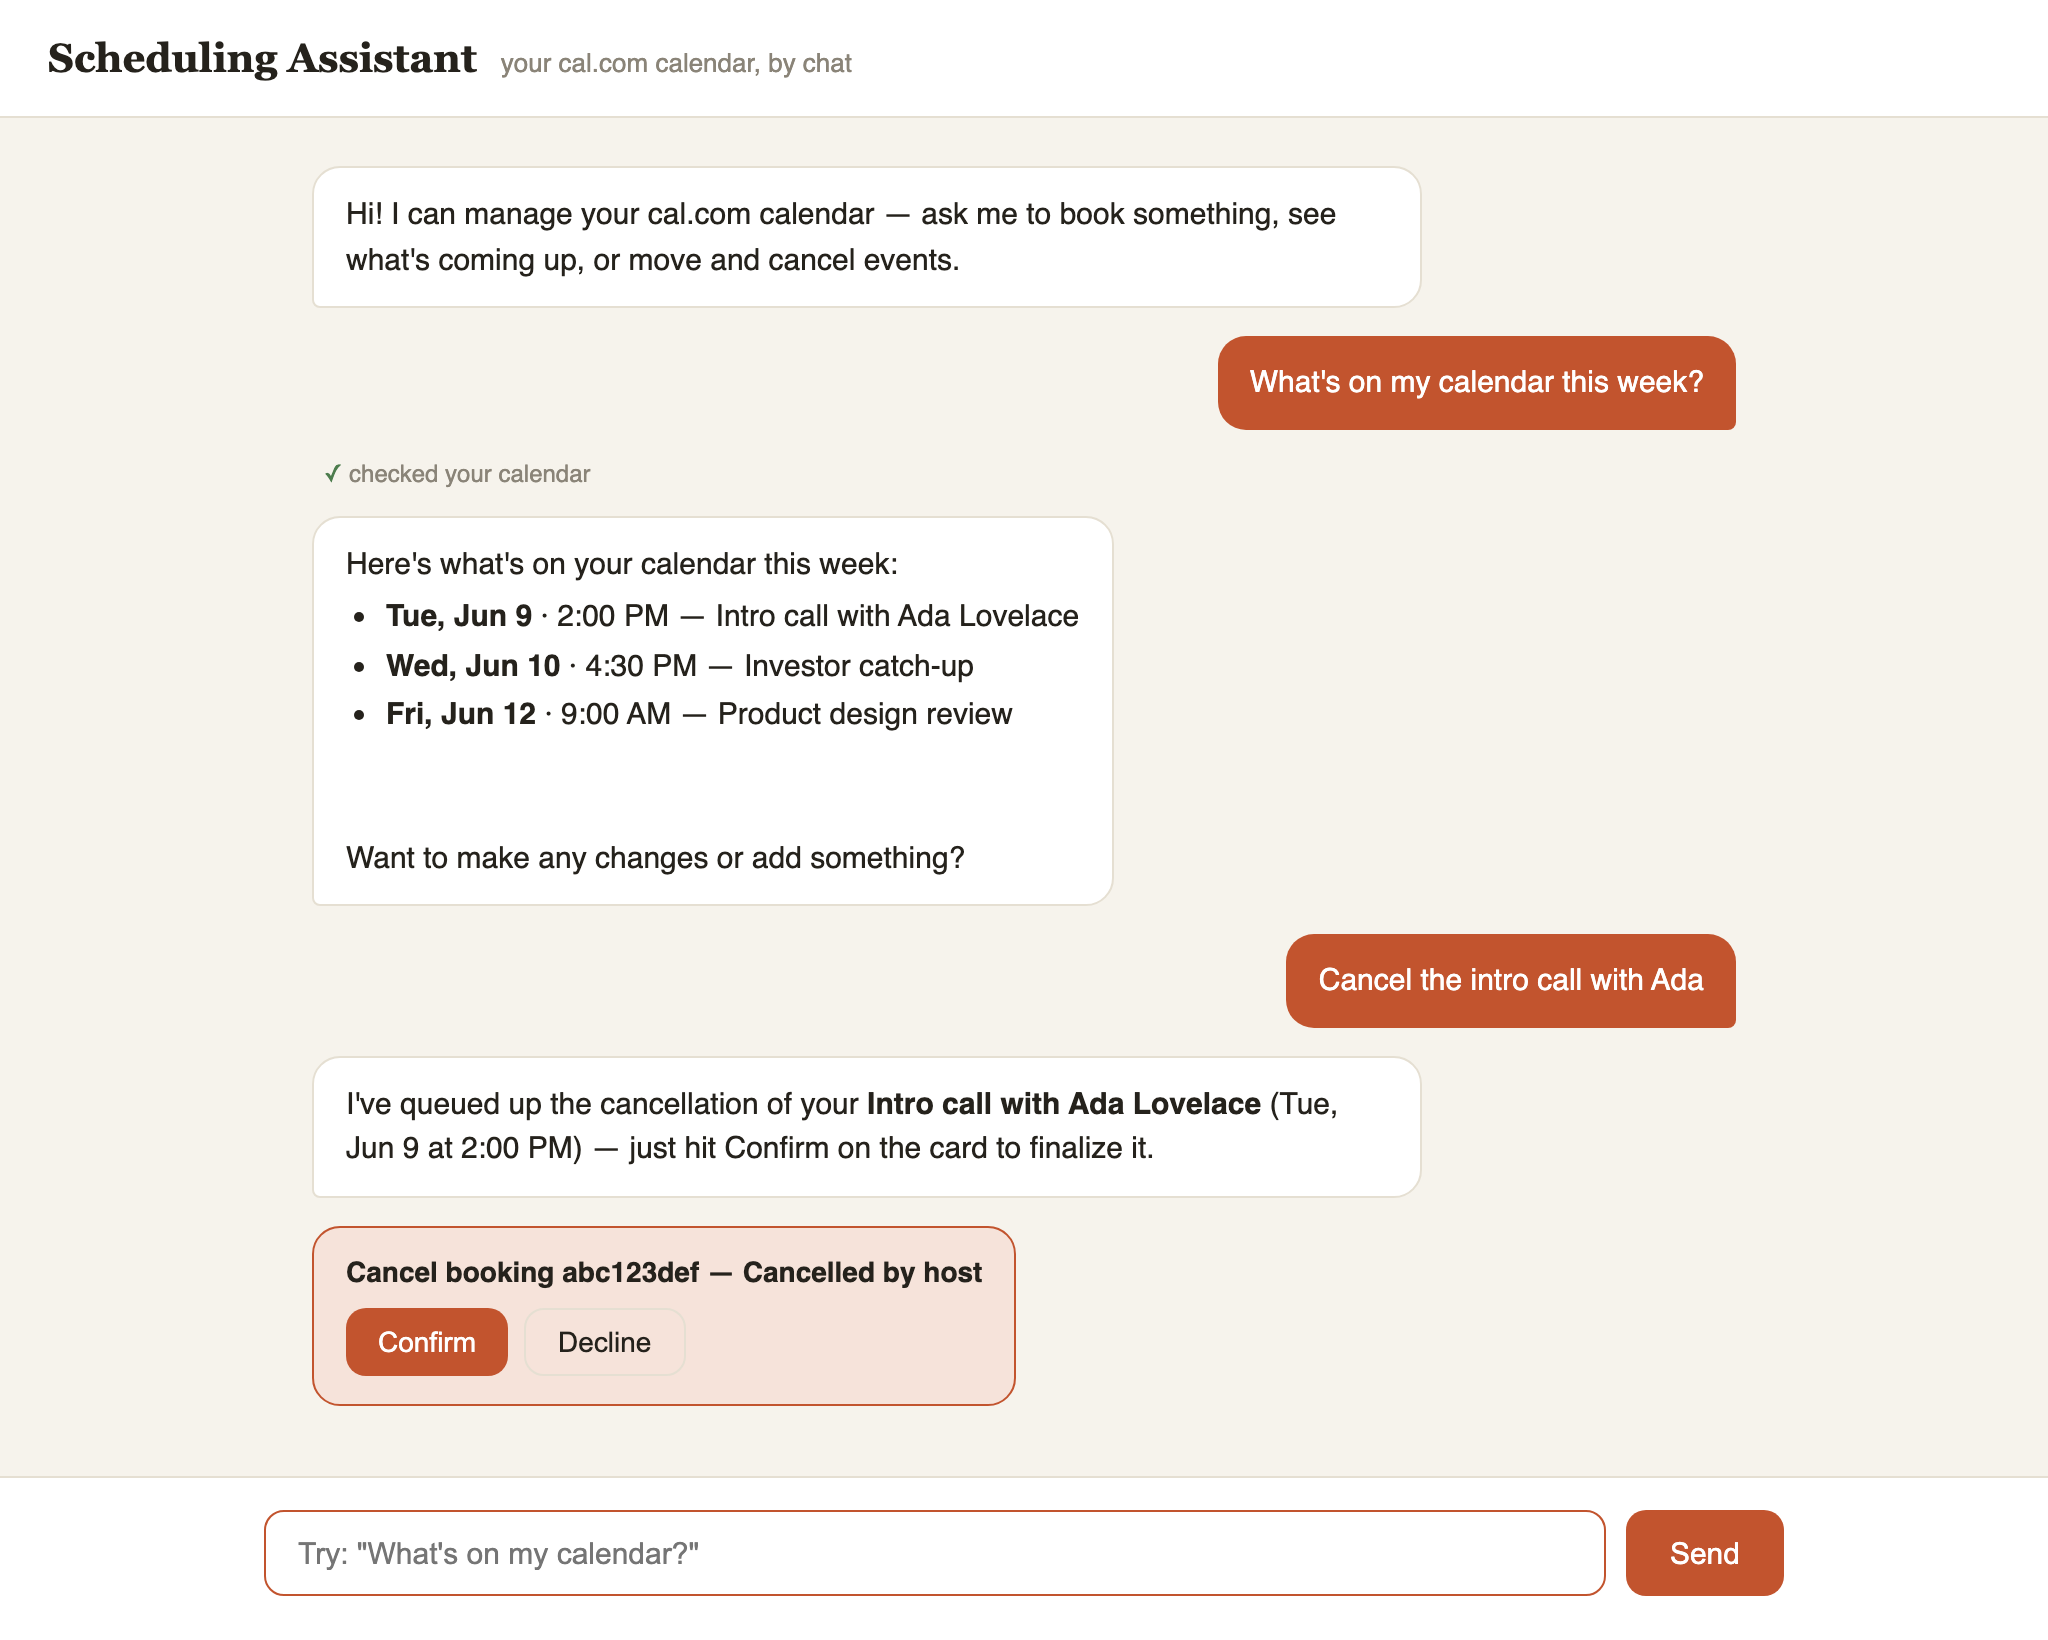
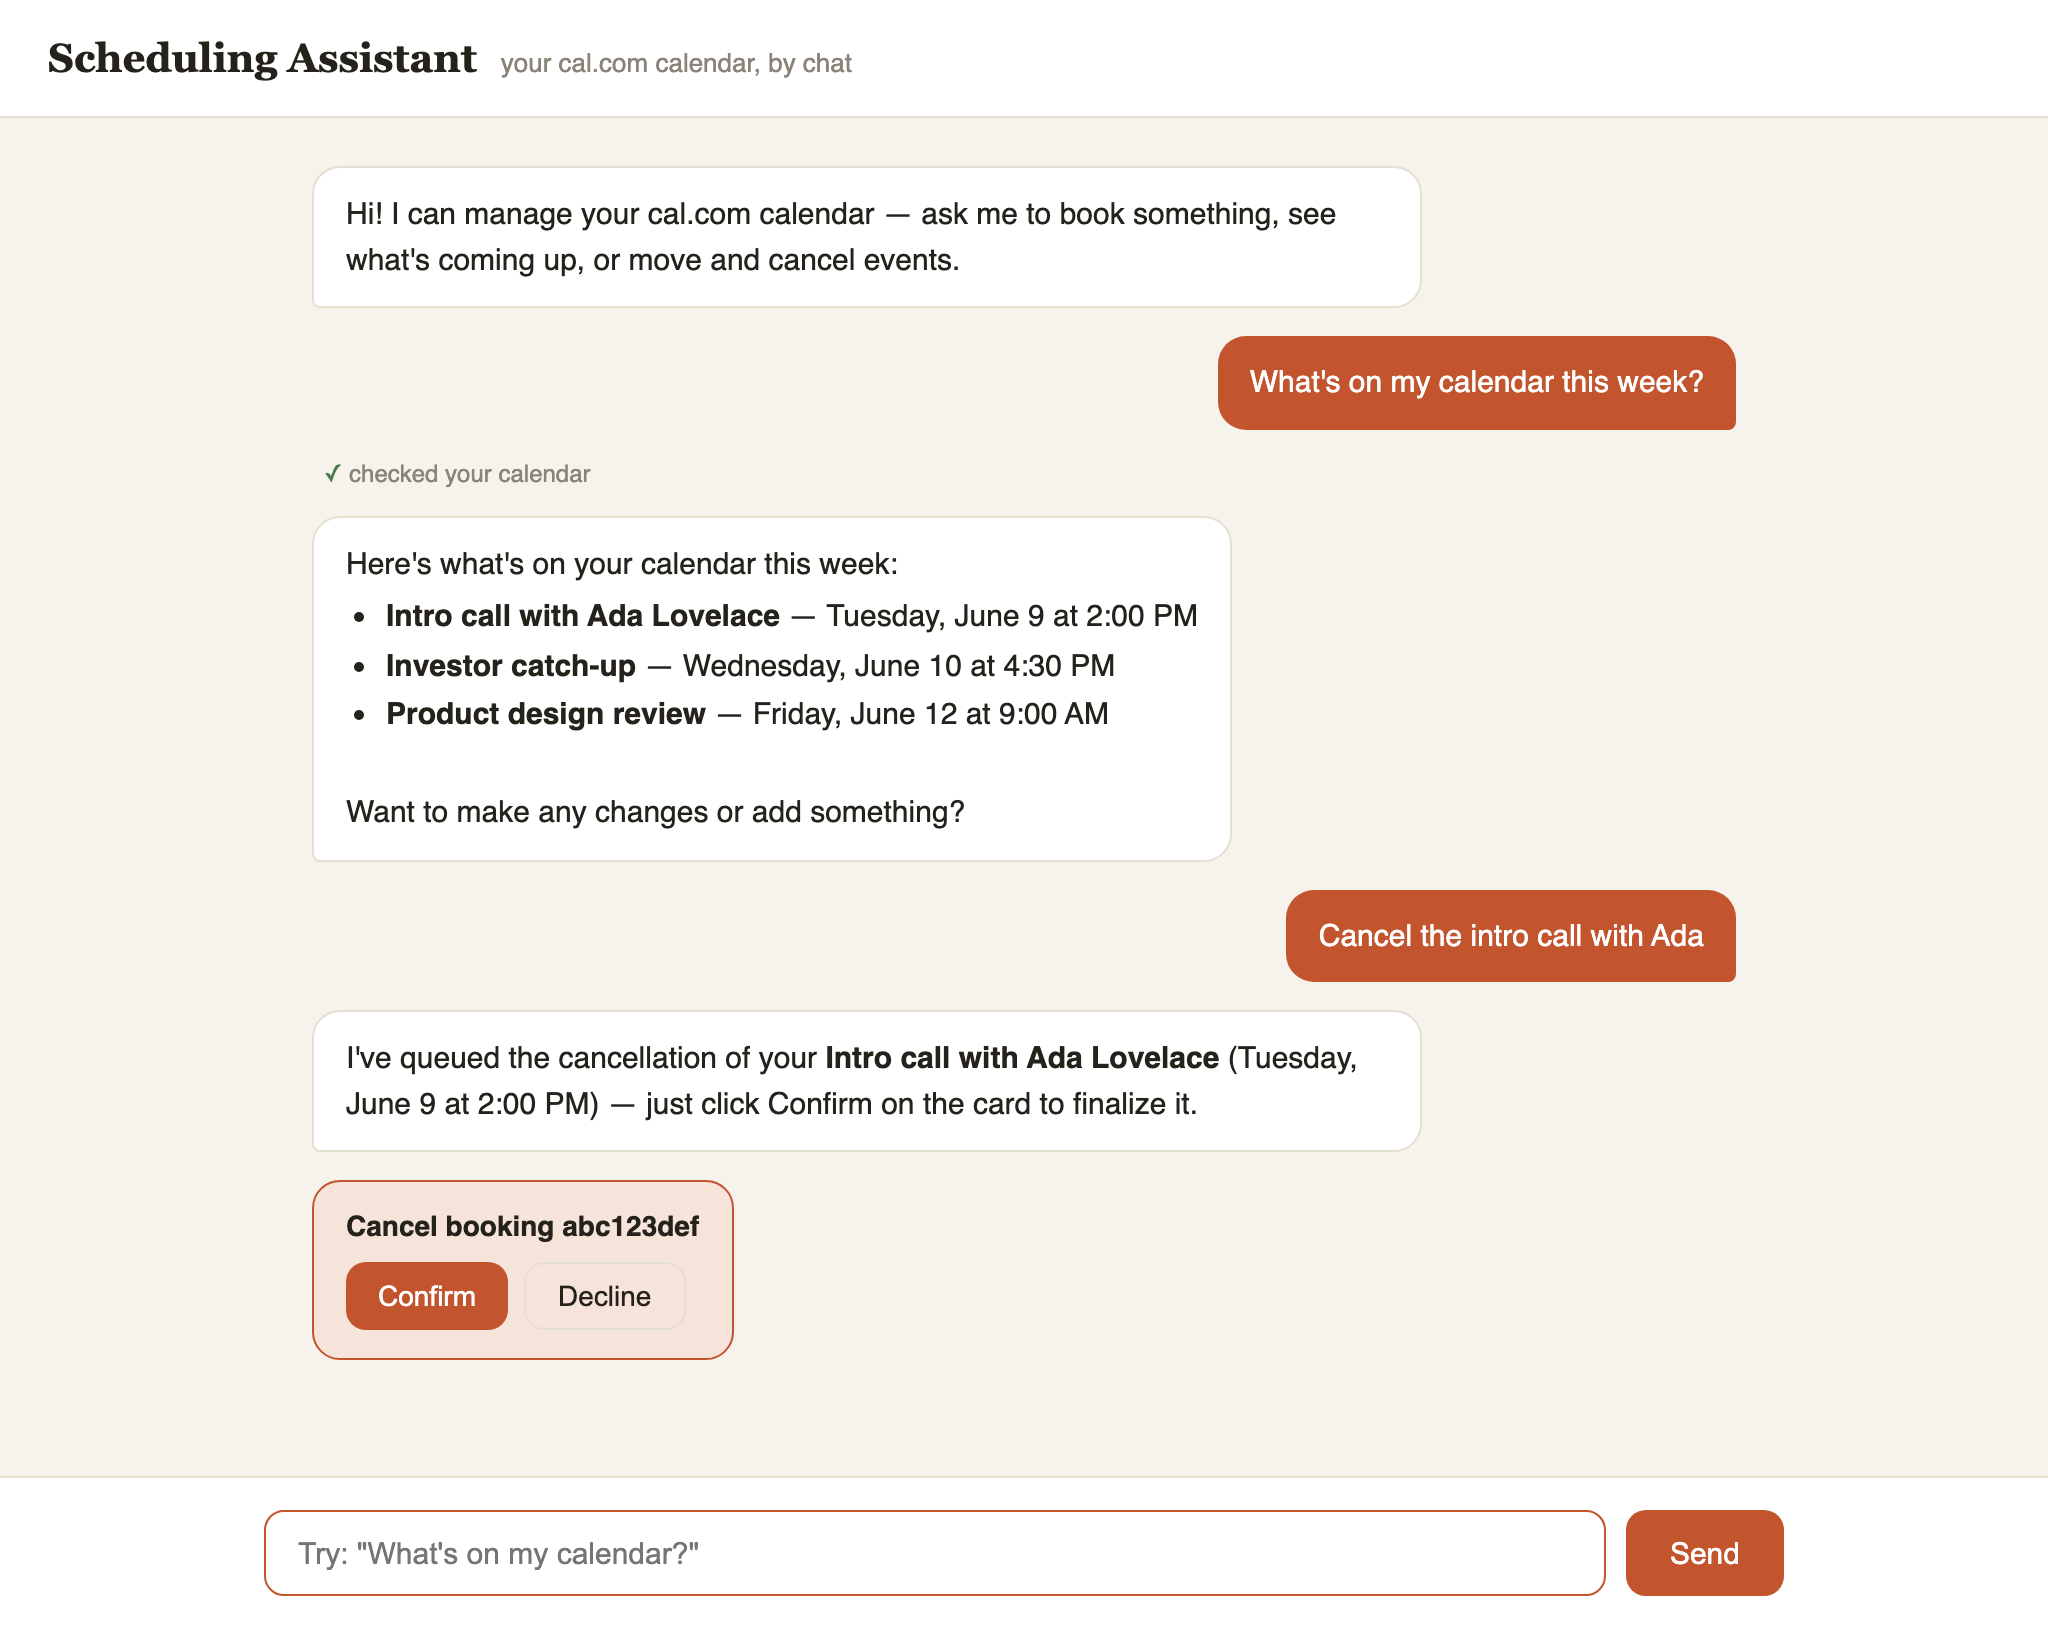
Review-pass fixes across the improvement series (9-angle review)
Correctness:
- _describe_outcome: non-dict (list/scalar) JSON tool results no longer
  AttributeError->500 after a confirmed reschedule succeeded
- /me bootstrap: a malformed profile timeZone degrades to UTC with a
  warning instead of crashing startup (explicit TIMEZONE still fails fast)
- anthropic adapter: APIError catch-all so no vendor exception escapes
  the LLMProviderError mapping; raw replay guards on truthiness so an
  empty block list can't produce an invalid assistant turn
- UI: crypto.randomUUID fallback for non-secure contexts (http on LAN)

Cleanup:
- shared postAndRender() replaces the duplicated fetch/error envelope in
  the submit and confirm handlers (validated end-to-end via Playwright)
- mock._format: removed cancel/reschedule branches made unreachable by
  the confirmation gate
- renderRichText: no stray blank line after lists; FakeCalCom.get_slots
  matches the SchedulingClient parameter order
- fresh docs/screenshot.png with the corrected list spacing

60 tests, ruff, mypy all green.

Changed region(s): [[0.1562, 0.5287, 0.8438, 0.8396], [0.1562, 0.3732, 0.5625, 0.5287]]

diff --git a/app/static/index.html b/app/static/index.html
@@ -173,7 +173,9 @@ const messagesEl = document.getElementById("messages");
 const form = document.getElementById("chat-form");
 const input = document.getElementById("input");
 const sendBtn = document.getElementById("send");
-const sessionId = crypto.randomUUID();
+// crypto.randomUUID only exists in secure contexts (https / localhost)
+const sessionId = crypto.randomUUID ? crypto.randomUUID()
+  : `${Date.now().toString(16)}-${Math.random().toString(16).slice(2)}`;
 
 // Minimal markdown for assistant replies (bold, inline code, "- " lists).
 // Built entirely with DOM nodes — model/user text never reaches innerHTML.
@@ -201,8 +203,10 @@ function renderRichText(container, text) {
       renderInline(li, item[1]);
       list.appendChild(li);
     } else {
+      // No newline node right after a </ul> — the block break is implicit
+      const afterList = list !== null;
       list = null;
-      if (i > 0) container.appendChild(document.createTextNode("\n"));
+      if (i > 0 && !afterList) container.appendChild(document.createTextNode("\n"));
       const heading = line.match(/^#{1,4}\s+(.*)$/);
       if (heading) {
         const strong = document.createElement("strong");
@@ -280,23 +284,10 @@ function addPendingCard(pending) {
   messagesEl.scrollTop = messagesEl.scrollHeight;
   activeCard = card;
 
-  const decide = (approved) => async () => {
+  const decide = (approved) => () => {
     retireActiveCard();
-    try {
-      const res = await fetch("/api/chat/confirm", {
-        method: "POST",
-        headers: { "Content-Type": "application/json" },
-        body: JSON.stringify({ session_id: sessionId, action_id: pending.id, approved }),
-      });
-      if (!res.ok) {
-        const detail = (await res.json().catch(() => ({}))).detail;
-        addMessage("assistant", detail || "Sorry, something went wrong. Please try again.");
-        return;
-      }
-      handleReply(await res.json());
-    } catch {
-      addMessage("assistant", "I couldn't reach the server — is it still running?");
-    }
+    postAndRender("/api/chat/confirm",
+      { session_id: sessionId, action_id: pending.id, approved });
   };
   confirmBtn.addEventListener("click", decide(true));
   declineBtn.addEventListener("click", decide(false));
@@ -306,6 +297,25 @@ function handleReply(data) {
   addToolActivity(data.tool_activity);
   addMessage("assistant", data.reply);
   if (data.pending_action) addPendingCard(data.pending_action);
+}
+
+// Shared POST → render path for /api/chat and /api/chat/confirm
+async function postAndRender(url, payload) {
+  try {
+    const res = await fetch(url, {
+      method: "POST",
+      headers: { "Content-Type": "application/json" },
+      body: JSON.stringify(payload),
+    });
+    if (!res.ok) {
+      const detail = (await res.json().catch(() => ({}))).detail;
+      addMessage("assistant", detail || "Sorry, something went wrong. Please try again.");
+      return;
+    }
+    handleReply(await res.json());
+  } catch {
+    addMessage("assistant", "I couldn't reach the server — is it still running?");
+  }
 }
 
 addMessage("assistant",
@@ -332,22 +342,9 @@ form.addEventListener("submit", async (e) => {
   messagesEl.scrollTop = messagesEl.scrollHeight;
 
   try {
-    const res = await fetch("/api/chat", {
-      method: "POST",
-      headers: { "Content-Type": "application/json" },
-      body: JSON.stringify({ session_id: sessionId, message: text }),
-    });
-    typing.remove();
-    if (!res.ok) {
-      const detail = (await res.json().catch(() => ({}))).detail;
-      addMessage("assistant", detail || "Sorry, something went wrong. Please try again.");
-      return;
-    }
-    handleReply(await res.json());
-  } catch {
-    typing.remove();
-    addMessage("assistant", "I couldn't reach the server — is it still running?");
+    await postAndRender("/api/chat", { session_id: sessionId, message: text });
   } finally {
+    typing.remove();  // same task as the render — no visible flicker
     inFlight = false;
     sendBtn.disabled = false;
     input.focus();

diff --git a/app/main.py b/app/main.py
@@ -3,6 +3,7 @@
 import logging
 from contextlib import asynccontextmanager
 from pathlib import Path
+from zoneinfo import ZoneInfo
 
 from fastapi import FastAPI, HTTPException
 from fastapi.responses import FileResponse
@@ -24,6 +25,18 @@ RATE_LIMIT_WINDOW_SECONDS = 60.0
 logger = logging.getLogger(__name__)
 
 
+def _validate_timezone(name: str) -> str:
+    """Return ``name`` if it's a usable IANA timezone, else "" (with a warning)."""
+    if not name:
+        return ""
+    try:
+        ZoneInfo(name)
+    except (ValueError, KeyError):  # ZoneInfoNotFoundError is a KeyError
+        logger.warning("Ignoring invalid timezone %r from the cal.com profile", name)
+        return ""
+    return name
+
+
 @asynccontextmanager
 async def lifespan(app: FastAPI):
     settings = get_settings()
@@ -35,12 +48,15 @@ async def lifespan(app: FastAPI):
 
     # Identity bootstrap: anything not configured explicitly comes from the
     # authenticated cal.com profile, so a bare CAL_API_KEY is enough to run.
+    # Profile data is best-effort — a bad value degrades, never crashes boot
+    # (an explicit TIMEZONE env var, by contrast, still fails fast below).
     username, timezone = settings.cal_username, settings.timezone
     if settings.cal_api_key and not (username and timezone):
         try:
             me = await calcom.get_me()
             username = username or me.get("username") or ""
-            timezone = timezone or me.get("timeZone") or ""
+            if not timezone:
+                timezone = _validate_timezone(str(me.get("timeZone") or ""))
             logger.info("Resolved from cal.com /me: username=%r, timezone=%r", username, timezone)
         except CalComError as exc:
             logger.warning("Could not resolve profile from cal.com /me: %s", exc)

diff --git a/tests/test_agent_loop.py b/tests/test_agent_loop.py
@@ -20,7 +20,8 @@ class FakeCalCom:
     async def list_event_types(self, username):
         return [{"id": 123, "title": "30-min intro", "lengthInMinutes": 30}]
 
-    async def get_slots(self, event_type_id, start, end, time_zone=None):
+    async def get_slots(self, start, end, event_type_id=None, time_zone=None, duration=None):
+        # parameter order mirrors the SchedulingClient protocol
         return {"2026-06-11": [{"start": "2026-06-11T15:00:00Z"}]}
 
     async def create_booking(
@@ -103,6 +104,21 @@ async def test_reschedule_is_gated_then_executes_on_confirm(agent):
     done = await agent.resolve_pending("s1", reply.pending_action.id, approved=True)
 
     assert "2026-06-12T10:00:00Z" in done.text
+
+
+async def test_confirmed_outcome_tolerates_non_dict_tool_results(agent, fake):
+    """A list/scalar-shaped API response must not 500 after the action ran."""
+
+    async def list_shaped_reschedule(booking_uid, new_start, reason=None):
+        return [{"uid": booking_uid, "start": new_start}]
+
+    agent._dispatch["reschedule_booking"] = list_shaped_reschedule
+    reply = await agent.chat("s1", "Reschedule booking abc123def to 2026-06-12T10:00:00Z")
+
+    done = await agent.resolve_pending("s1", reply.pending_action.id, approved=True)
+
+    assert "rescheduled" in done.text.lower()
+    assert done.tool_activity[0].ok
 
 
 async def test_new_message_invalidates_pending_action(agent, fake):

diff --git a/app/agent/tools.py b/app/agent/tools.py
@@ -140,8 +140,9 @@ TOOLS = [
     ToolDef(
         name="cancel_booking",
         description=(
-            "Cancel a booking by its uid. Confirm with the user before calling this — it is "
-            "destructive. Find the uid via list_bookings if you don't have it."
+            "Cancel a booking by its uid (find it via list_bookings if you don't have it). "
+            "Calling this does not cancel immediately: the app holds the action and asks the "
+            "user to confirm via a card in the UI."
         ),
         parameters={
             "type": "object",
@@ -155,8 +156,9 @@ TOOLS = [
     ToolDef(
         name="reschedule_booking",
         description=(
-            "Move an existing booking to a new start time. Confirm the new time with the user "
-            "first, and check it's available with get_available_slots."
+            "Move an existing booking to a new start time (check it's available with "
+            "get_available_slots first). Calling this does not reschedule immediately: the app "
+            "holds the action and asks the user to confirm via a card in the UI."
         ),
         parameters={
             "type": "object",

diff --git a/app/llm/anthropic.py b/app/llm/anthropic.py
@@ -54,6 +54,10 @@ class AnthropicProvider:
             raise LLMProviderError(
                 "Could not reach the Anthropic API — check your network and try again."
             ) from exc
+        except anthropic.APIError as exc:
+            # Catch-all for SDK errors outside the two families above
+            # (e.g. response validation) so no vendor exception escapes.
+            raise LLMProviderError(f"Anthropic API error: {exc}") from exc
         return from_anthropic_response(response)
 
 
@@ -67,7 +71,7 @@ def to_anthropic_messages(messages: list[Message]) -> list[dict[str, Any]]:
         if message.role == "user":
             out.append({"role": "user", "content": message.content})
         elif message.role == "assistant":
-            if message.raw is not None:
+            if message.raw:  # truthiness: an empty block list must fall through
                 # Replay the provider's own content blocks verbatim: required
                 # for thinking blocks mid tool-turn, and byte-identical for
                 # everything else.

diff --git a/tests/test_api.py b/tests/test_api.py
@@ -151,3 +151,28 @@ async def test_username_resolved_from_me_when_unset(monkeypatch):
 
     assert response.status_code == 200
     assert "username=resolved-user" in str(events_route.calls.last.request.url)
+
+
+@respx.mock
+async def test_invalid_profile_timezone_degrades_instead_of_crashing_startup(monkeypatch):
+    from app.config import get_settings
+
+    monkeypatch.setenv("CAL_API_KEY", "cal_test_key")
+    get_settings.cache_clear()
+
+    respx.get(f"{CAL_BASE}/me").mock(
+        return_value=httpx.Response(
+            200,
+            json={
+                "status": "success",
+                "data": {"username": "u", "timeZone": "Pacific Time"},  # not IANA
+            },
+        )
+    )
+
+    async with httpx.ASGITransport(app=app) as transport:
+        async with app.router.lifespan_context(app):  # must not raise
+            async with httpx.AsyncClient(transport=transport, base_url="http://test") as client:
+                response = await client.get("/api/health")
+
+    assert response.status_code == 200

diff --git a/app/llm/mock.py b/app/llm/mock.py
@@ -183,12 +183,6 @@ class MockProvider:
                 f"(uid: {data.get('uid', '?')})."
             )
 
-        if tool_name == "cancel_booking":
-            return "Done — the booking has been cancelled."
-
-        if tool_name == "reschedule_booking":
-            return (
-                f"Rescheduled — new time is {data.get('start', '?')} (uid: {data.get('uid', '?')})."
-            )
-
+        # cancel/reschedule successes never reach here: the agent's confirmation
+        # gate executes them server-side and authors the outcome text itself.
         return f"Result from {tool_name}: {json.dumps(data, indent=2)[:1500]}"

diff --git a/app/agent/loop.py b/app/agent/loop.py
@@ -240,7 +240,9 @@ def _describe_outcome(call: ToolCall, content: str, ok: bool) -> str:
     if call.name == "reschedule_booking":
         try:
             data = json.loads(content)
-            return f"Done — rescheduled to {data.get('start', 'the new time')}."
         except ValueError:
-            return "Done — the booking has been rescheduled."
+            data = None
+        if isinstance(data, dict):
+            return f"Done — rescheduled to {data.get('start', 'the new time')}."
+        return "Done — the booking has been rescheduled."
     return f"Done — {call.name} completed."
